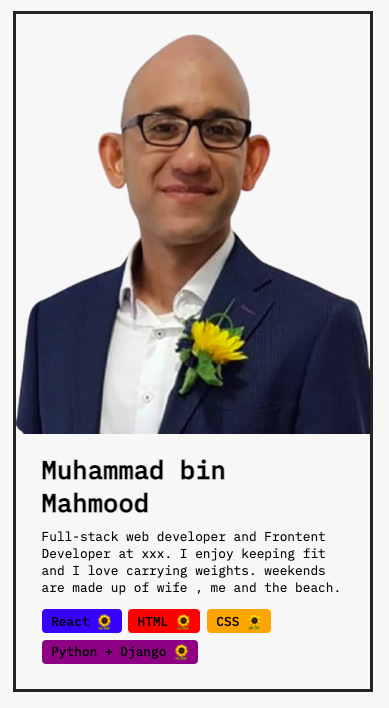
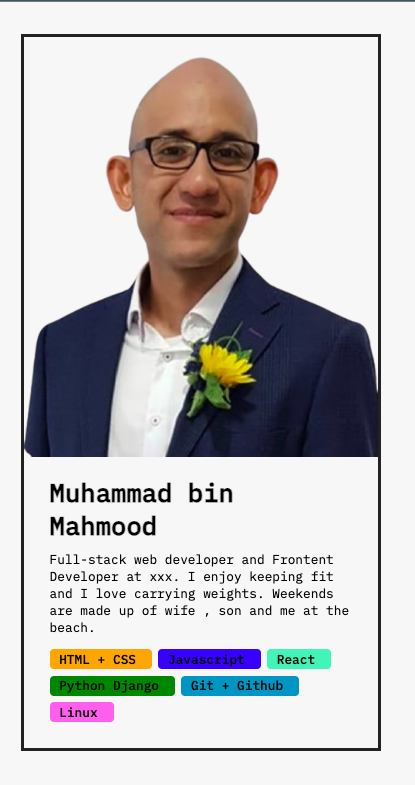
Update image

Changed region(s): [[0.0308, 0.0, 0.9871, 0.9944], [0.6787, 0.3729, 0.8021, 0.404]]

diff --git a/src/index.js b/src/index.js
@@ -2,6 +2,42 @@ import { StrictMode } from "react";
 import { createRoot } from "react-dom/client";
 import "./styles.css";
 
+const skills = [
+  {
+    skill: "HTML + CSS",
+    lelvel: "Intermediate",
+    color: "orange",
+  },
+
+  {
+    skill: "Javascript",
+    lelvel: "Intermediate",
+    color: "blue",
+  },
+  {
+    skill: "React",
+    lelvel: "Intermediate",
+    color: "#79edb8",
+  },
+  {
+    skill: "Python Django",
+    lelvel: "Beginner",
+    color: "green",
+  },
+
+  {
+    skill: "Git + Github",
+    lelvel: "Intermediate",
+    color: "#2596be",
+  },
+
+  {
+    skill: "Linux",
+    lelvel: "Beginner",
+    color: "#ed79e8",
+  },
+];
+
 function App() {
   return (
     <div className="card">
@@ -26,8 +62,8 @@ function Intro() {
       <h1>Muhammad bin Mahmood</h1>
       <p>
         Full-stack web developer and Frontent Developer at xxx. I enjoy keeping
-        fit and I love carrying weights. weekends are made up of wife , me and
-        the beach.
+        fit and I love carrying weights. Weekends are made up of wife , son and
+        me at the beach.
       </p>
     </div>
   );
@@ -35,19 +71,26 @@ function Intro() {
 function SkillList() {
   return (
     <div className="skill-list">
-      <Skill skill="React" emoji="🌻" color="blue" />
-      <Skill skill="HTML" emoji="🌻" color="red" />
-      <Skill skill="CSS" emoji="🌻" color="orange" />
-      <Skill skill="Python + Django" emoji="🌻" color="purple" />
+      {skills.map((skillq) => (
+        <Skill
+          skilla={skillq.skill}
+          color={skillq.color}
+          level={skillq.level}
+        />
+      ))}
     </div>
   );
 }
 
-function Skill(props) {
+function Skill({ skilla, color, level }) {
   return (
-    <div className="skill" style={{ backgroundColor: props.color }}>
-      <span>{props.skill}</span>
-      <span>{props.emoji}</span>
+    <div className="skill" style={{ backgroundColor: color }}>
+      <span>{skilla}</span>
+      <span>
+        {level === "Intermediate" && "✊"}
+        {level === "Beginner" && "🙌"}
+        {level === "advanced" && "💪"}
+      </span>
     </div>
   );
 }
